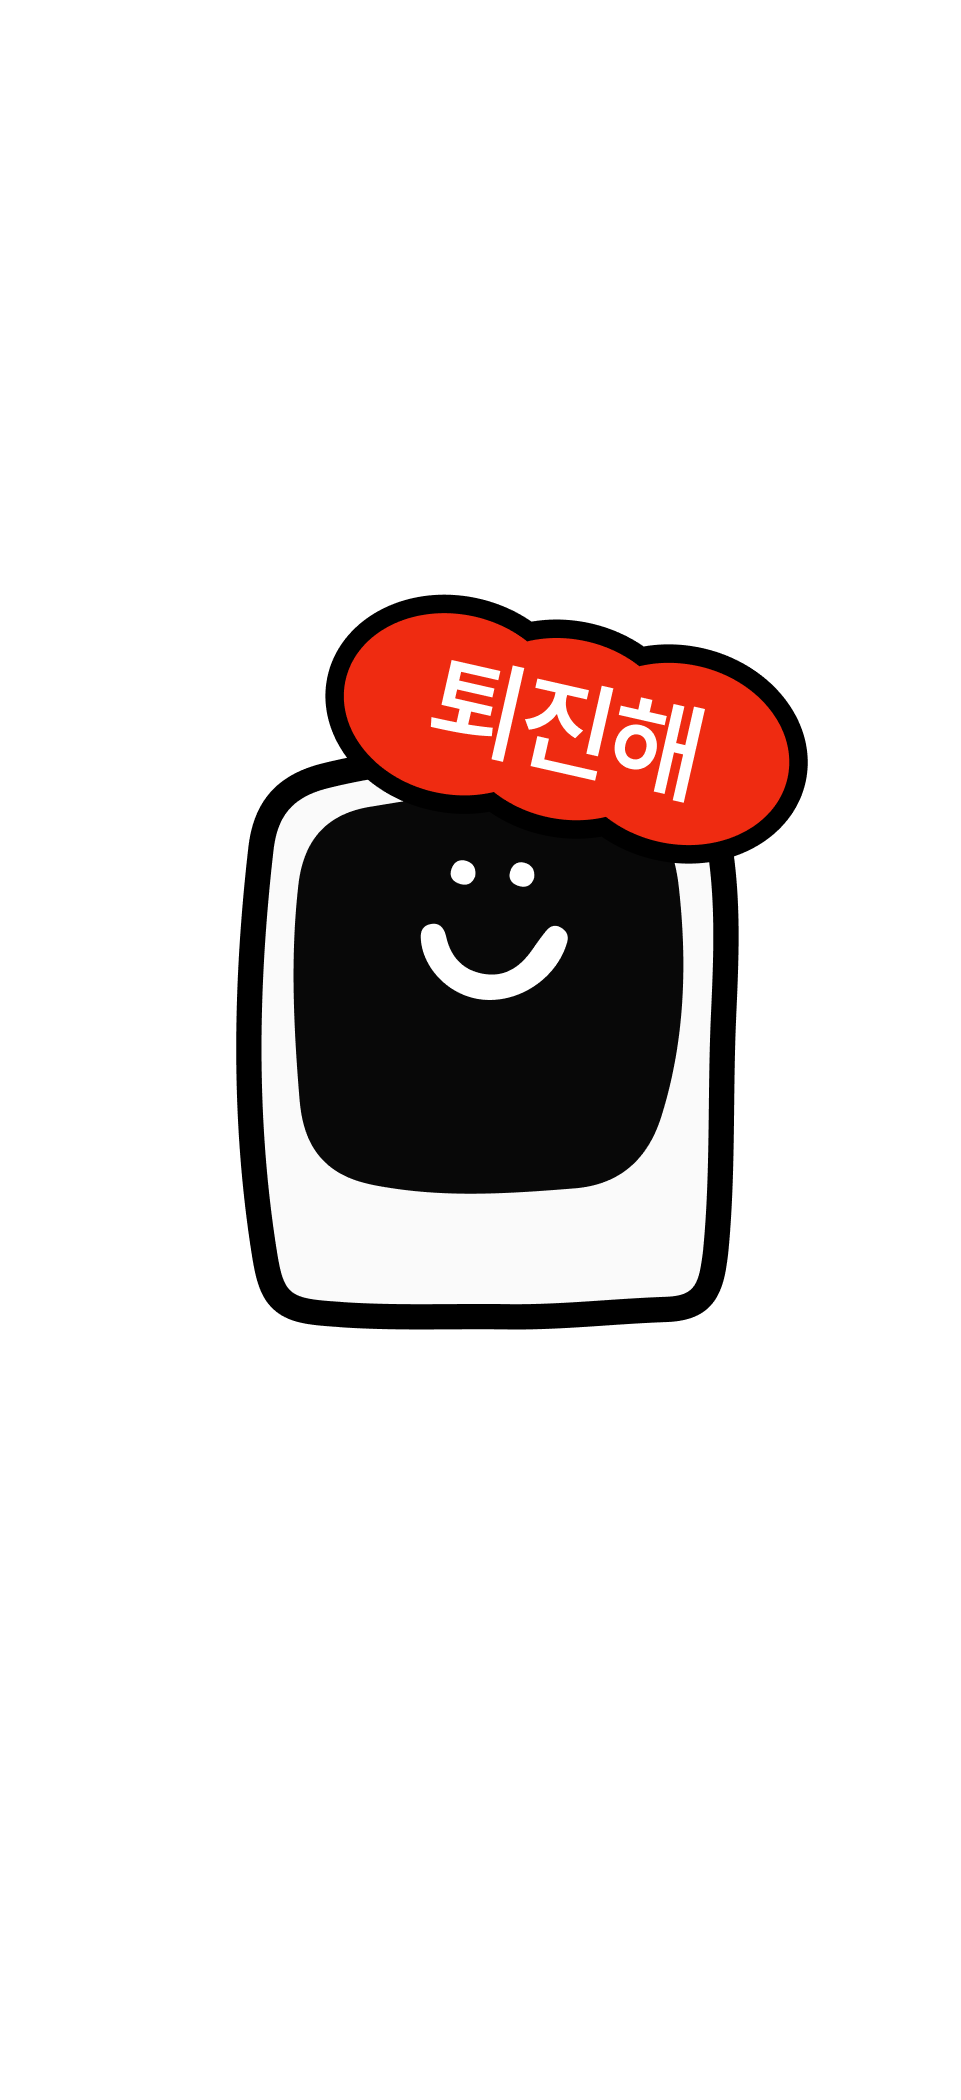
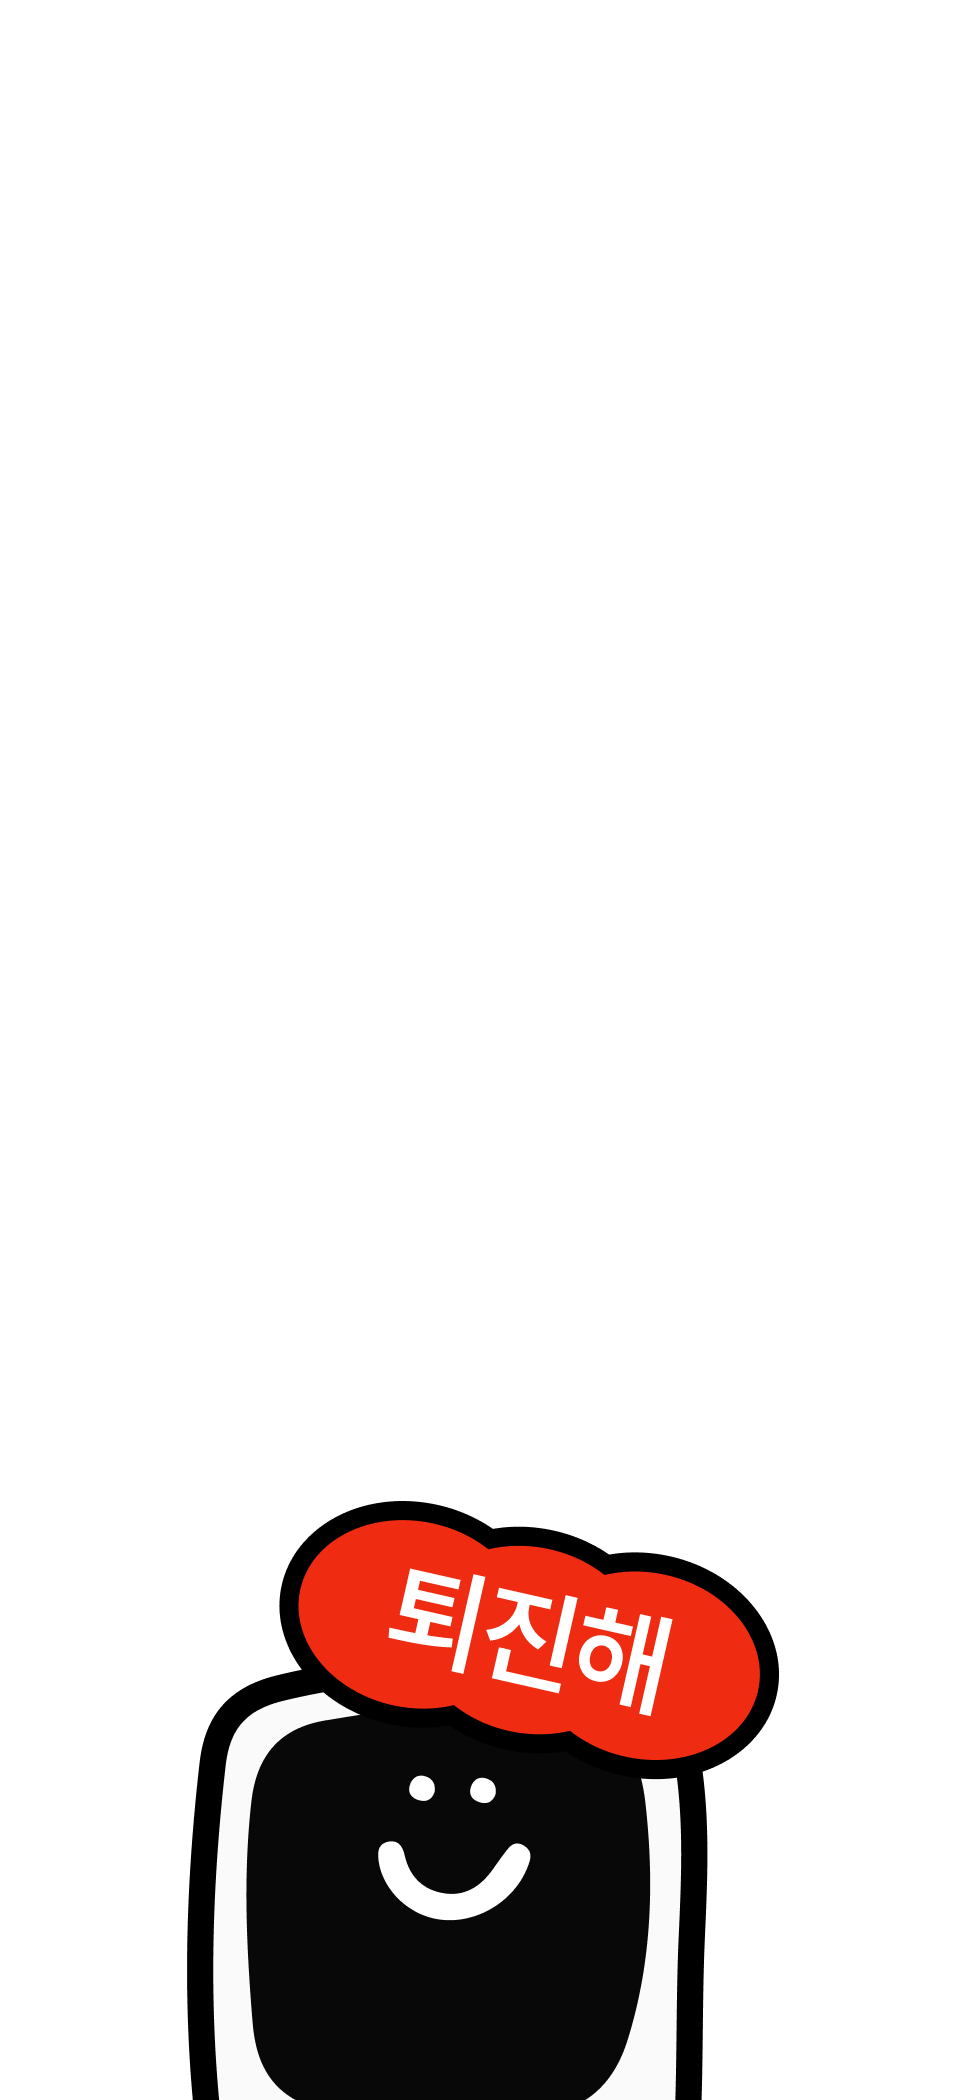
feat: replace 퇴진 테마

Changed region(s): [[0.2185, 0.2786, 0.8429, 0.65], [0.1873, 0.7119, 0.8117, 1.0]]

diff --git a/src/lib/constants/boardConfig.ts b/src/lib/constants/boardConfig.ts
@@ -13,6 +13,10 @@ export const BOARDTHEMAS: Record<BoardThemaKeyType, BoardThemaType> = {
     title: '눈송이 테마',
     theme: 'LIGHT',
   },
+  'B-7': {
+    title: '퇴진 테마',
+    theme: 'LIGHT',
+  },
   'B-3': {
     title: '코르크판 테마',
     theme: 'LIGHT',
@@ -31,10 +35,6 @@ export const BOARDTHEMAS: Record<BoardThemaKeyType, BoardThemaType> = {
   },
   'B-0': {
     title: '기본 테마',
-    theme: 'LIGHT',
-  },
-  'B-7': {
-    title: '퇴진 테마',
     theme: 'LIGHT',
   },
 }

diff --git a/src/app/board/create/theme/_components/ThemaSelect.tsx b/src/app/board/create/theme/_components/ThemaSelect.tsx
@@ -30,7 +30,7 @@ const ThemaSelectItem = ({
 
     <div
       className={twMerge(
-        'flex h-[178px] w-[140px] max-w-full items-center overflow-hidden rounded-lg border-2',
+        'flex h-[178px] w-[140px] max-w-full items-end overflow-hidden rounded-lg border-2',
         isCurrentThema ? 'border-gray-950' : 'border-gray-300',
       )}
     >

diff --git a/src/app/board/[boardId]/page.tsx b/src/app/board/[boardId]/page.tsx
@@ -63,7 +63,7 @@ const BoardPage = async ({ params }: BoardPageProps) => {
   return (
     <TutorialProvider>
       <div
-        className="relative flex h-dvh flex-col bg-cover"
+        className="relative flex h-dvh flex-col bg-cover bg-bottom"
         style={{ backgroundImage: `url(${background})` }}
       >
         <Header
